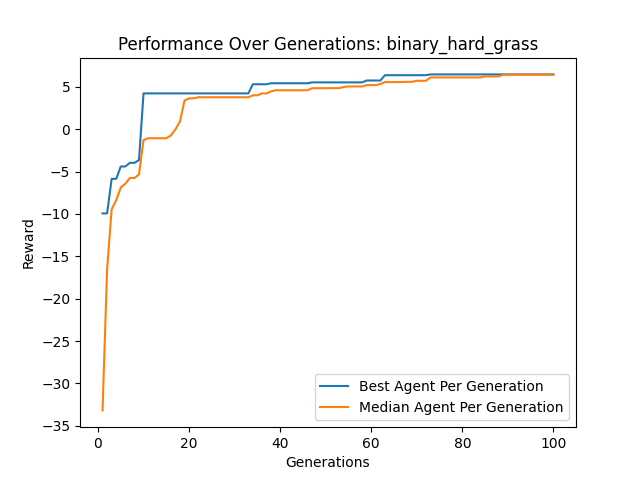
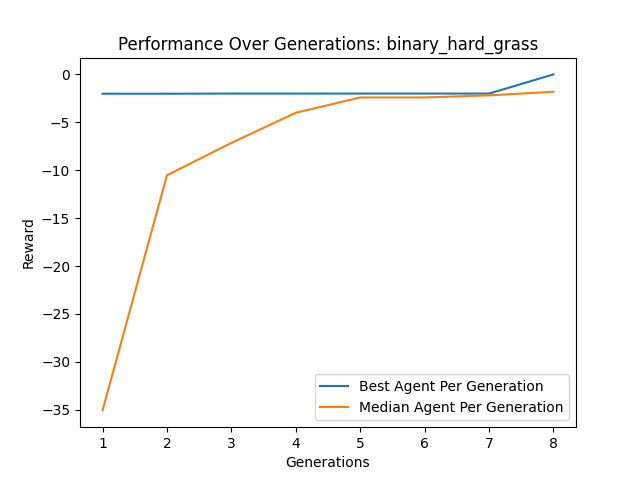
fix error in grass biome

diff --git a/core/evolution.py b/core/evolution.py
@@ -347,12 +347,14 @@ def evolve(
         # Compute mean reward over the elites (survivors)
         elite_rewards = [m.reward for m in survivors]
         mean_elite_val = float(np.mean(elite_rewards))
+        assert mean_elite_val <= 0, f"Mean elite reward should be non-positive: {mean_elite_val}"
         mean_elite_rewards.append(mean_elite_val)
 
         # Image saving per generation (if enabled)
         if (gen_save_dir and 
             tile_images is not None and 
             population[best_idx].reward > -float("inf")):
+            assert population[best_idx].reward <= 0, f"Best agent reward should be non-positive: {population[best_idx].reward}\n{population[best_idx].info}"
             
             pygame_initialized = False
             timestamp = int(time.time())

diff --git a/tasks/grass_task.py b/tasks/grass_task.py
@@ -46,8 +46,8 @@ def grass_reward(grid: NDArray) -> tuple[float, dict[str, any]]:
     )
 
     # Calculate rewards based on thresholds
-    grass_reward_val = max(0, grass_percent - 0.2) * 10
-    flower_reward_val = max(0, flower_percent - 0.2) * 10
+    grass_reward_val = min(0, grass_percent - 0.2) * 10
+    flower_reward_val = min(0, flower_percent - 0.2) * 10
     penalty = water_count + hill_count
 
     total_reward = grass_reward_val + flower_reward_val - penalty
@@ -57,6 +57,7 @@ def grass_reward(grid: NDArray) -> tuple[float, dict[str, any]]:
         "hill_count": hill_count,
         "grass_percent": grass_percent,
         "flower_percent": flower_percent,
+        "grass_biome_reward": total_reward,
     }
 
 
